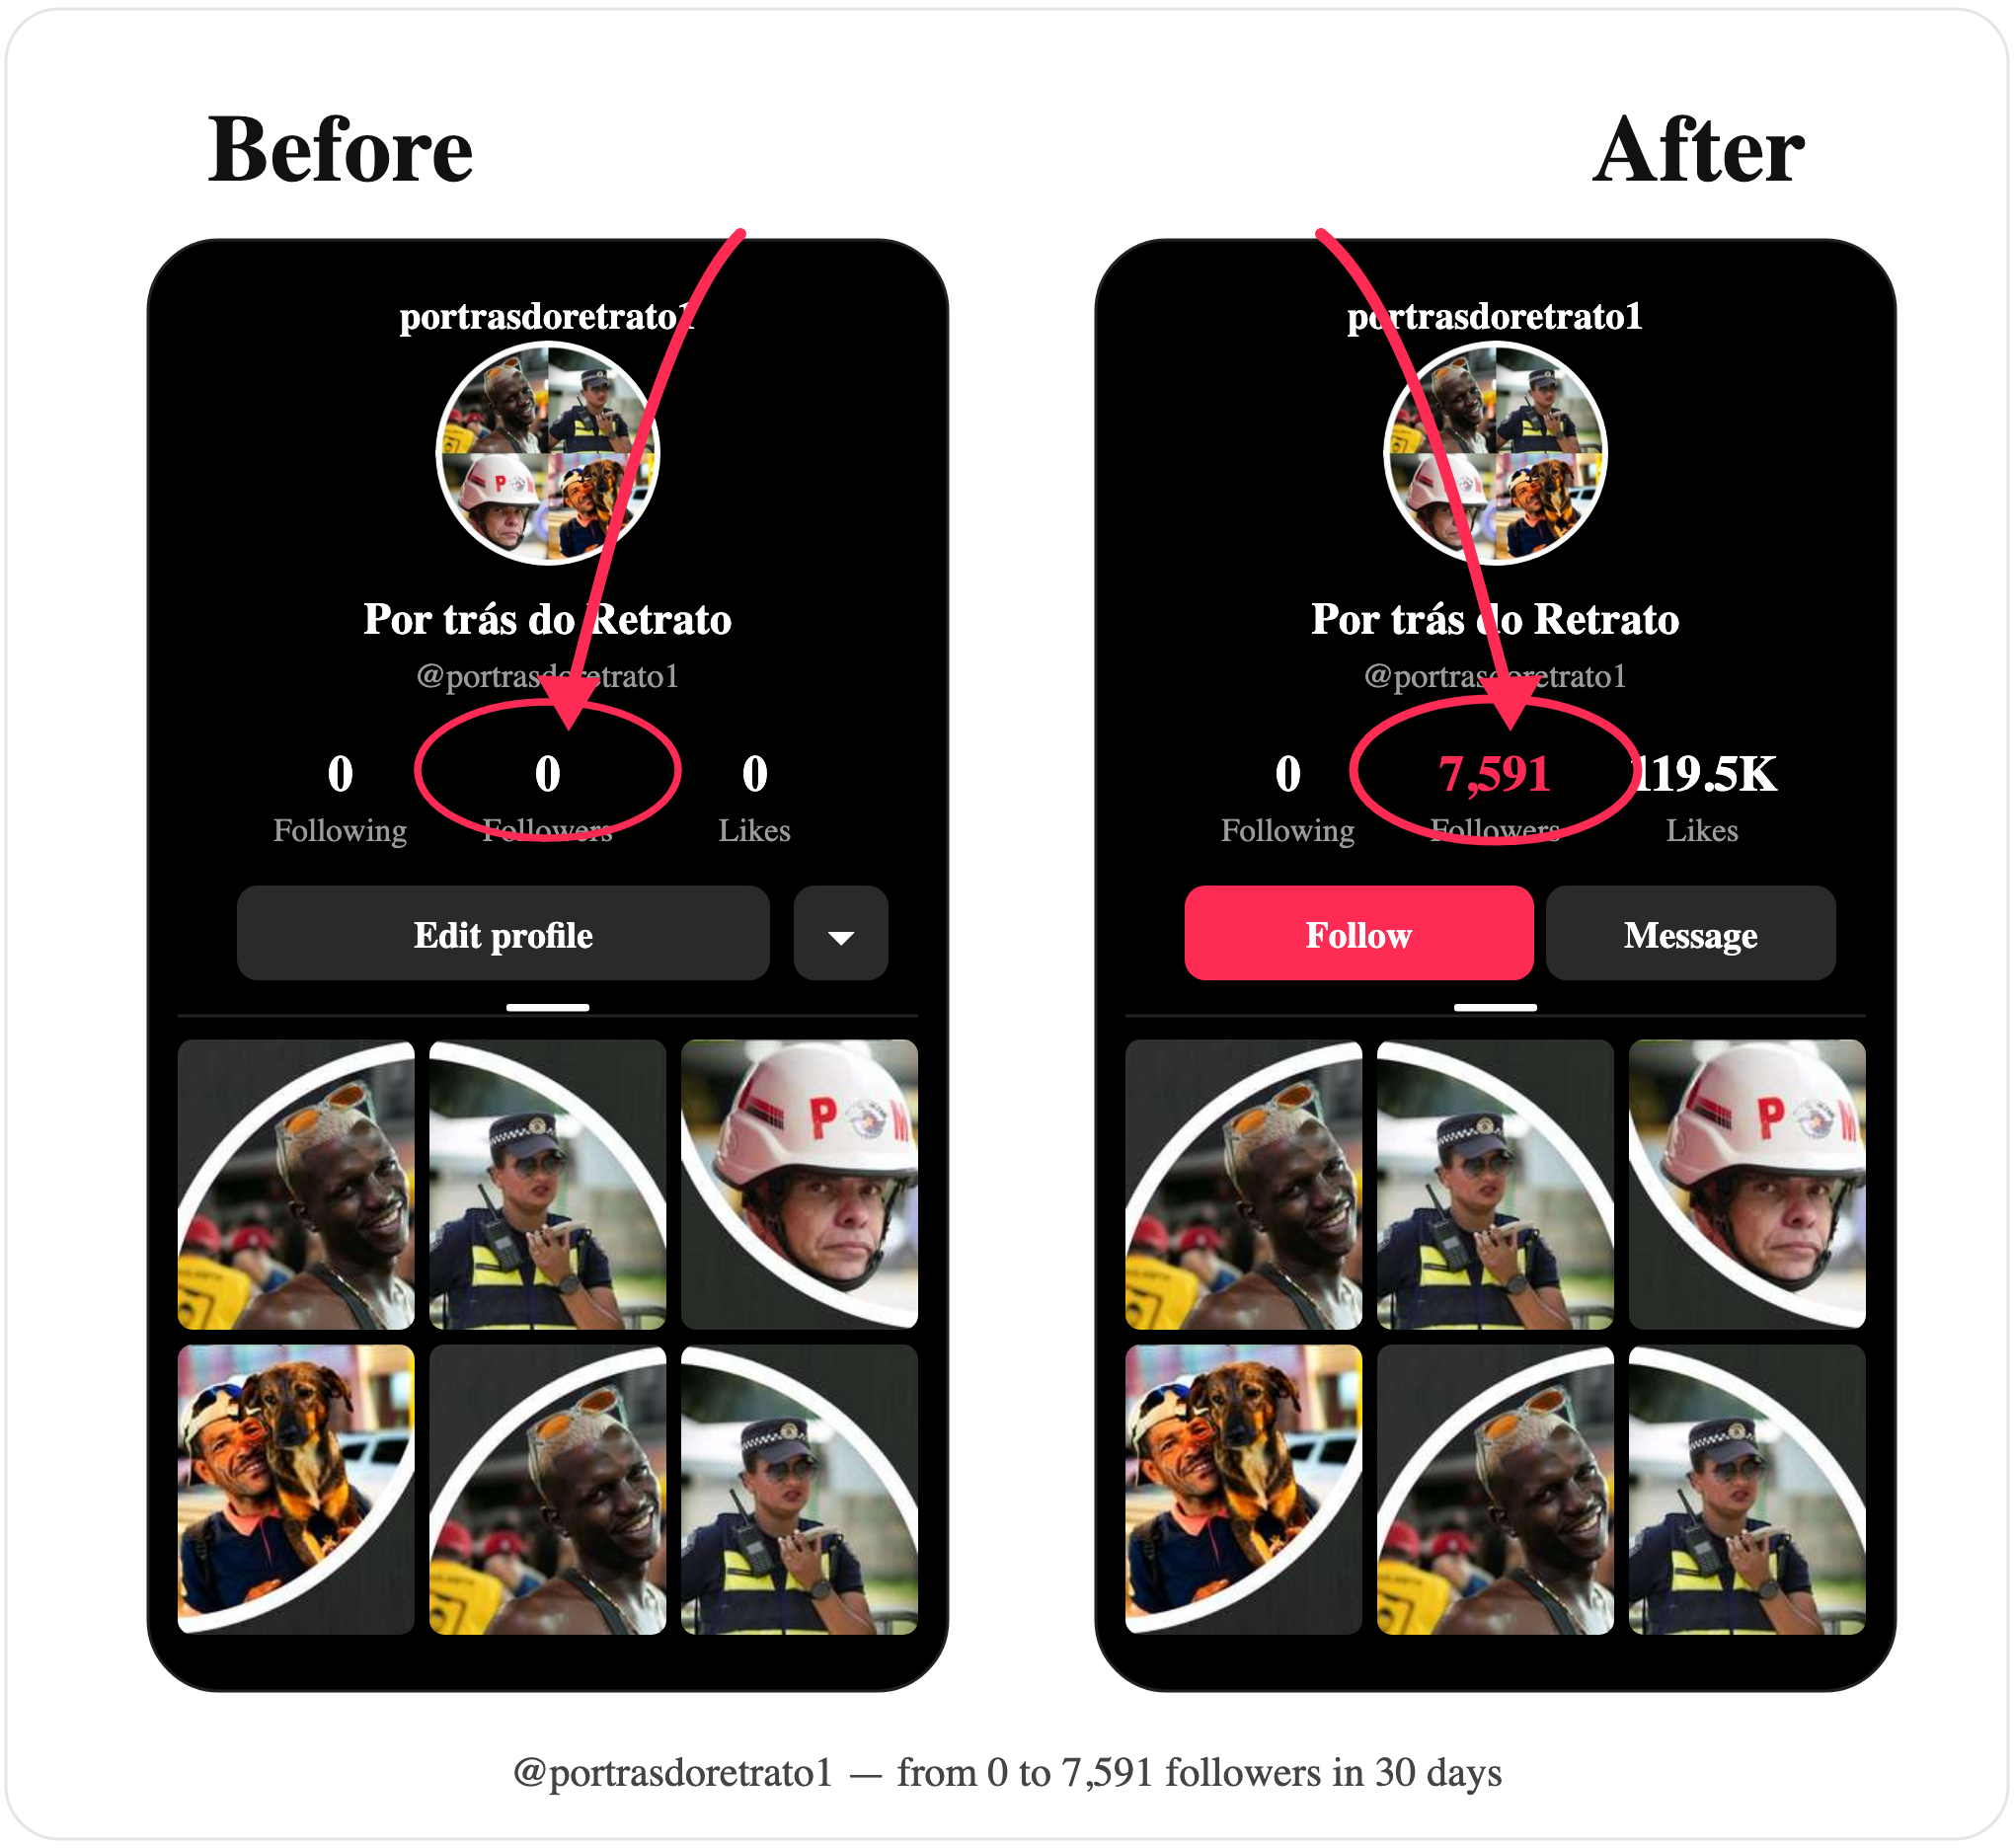
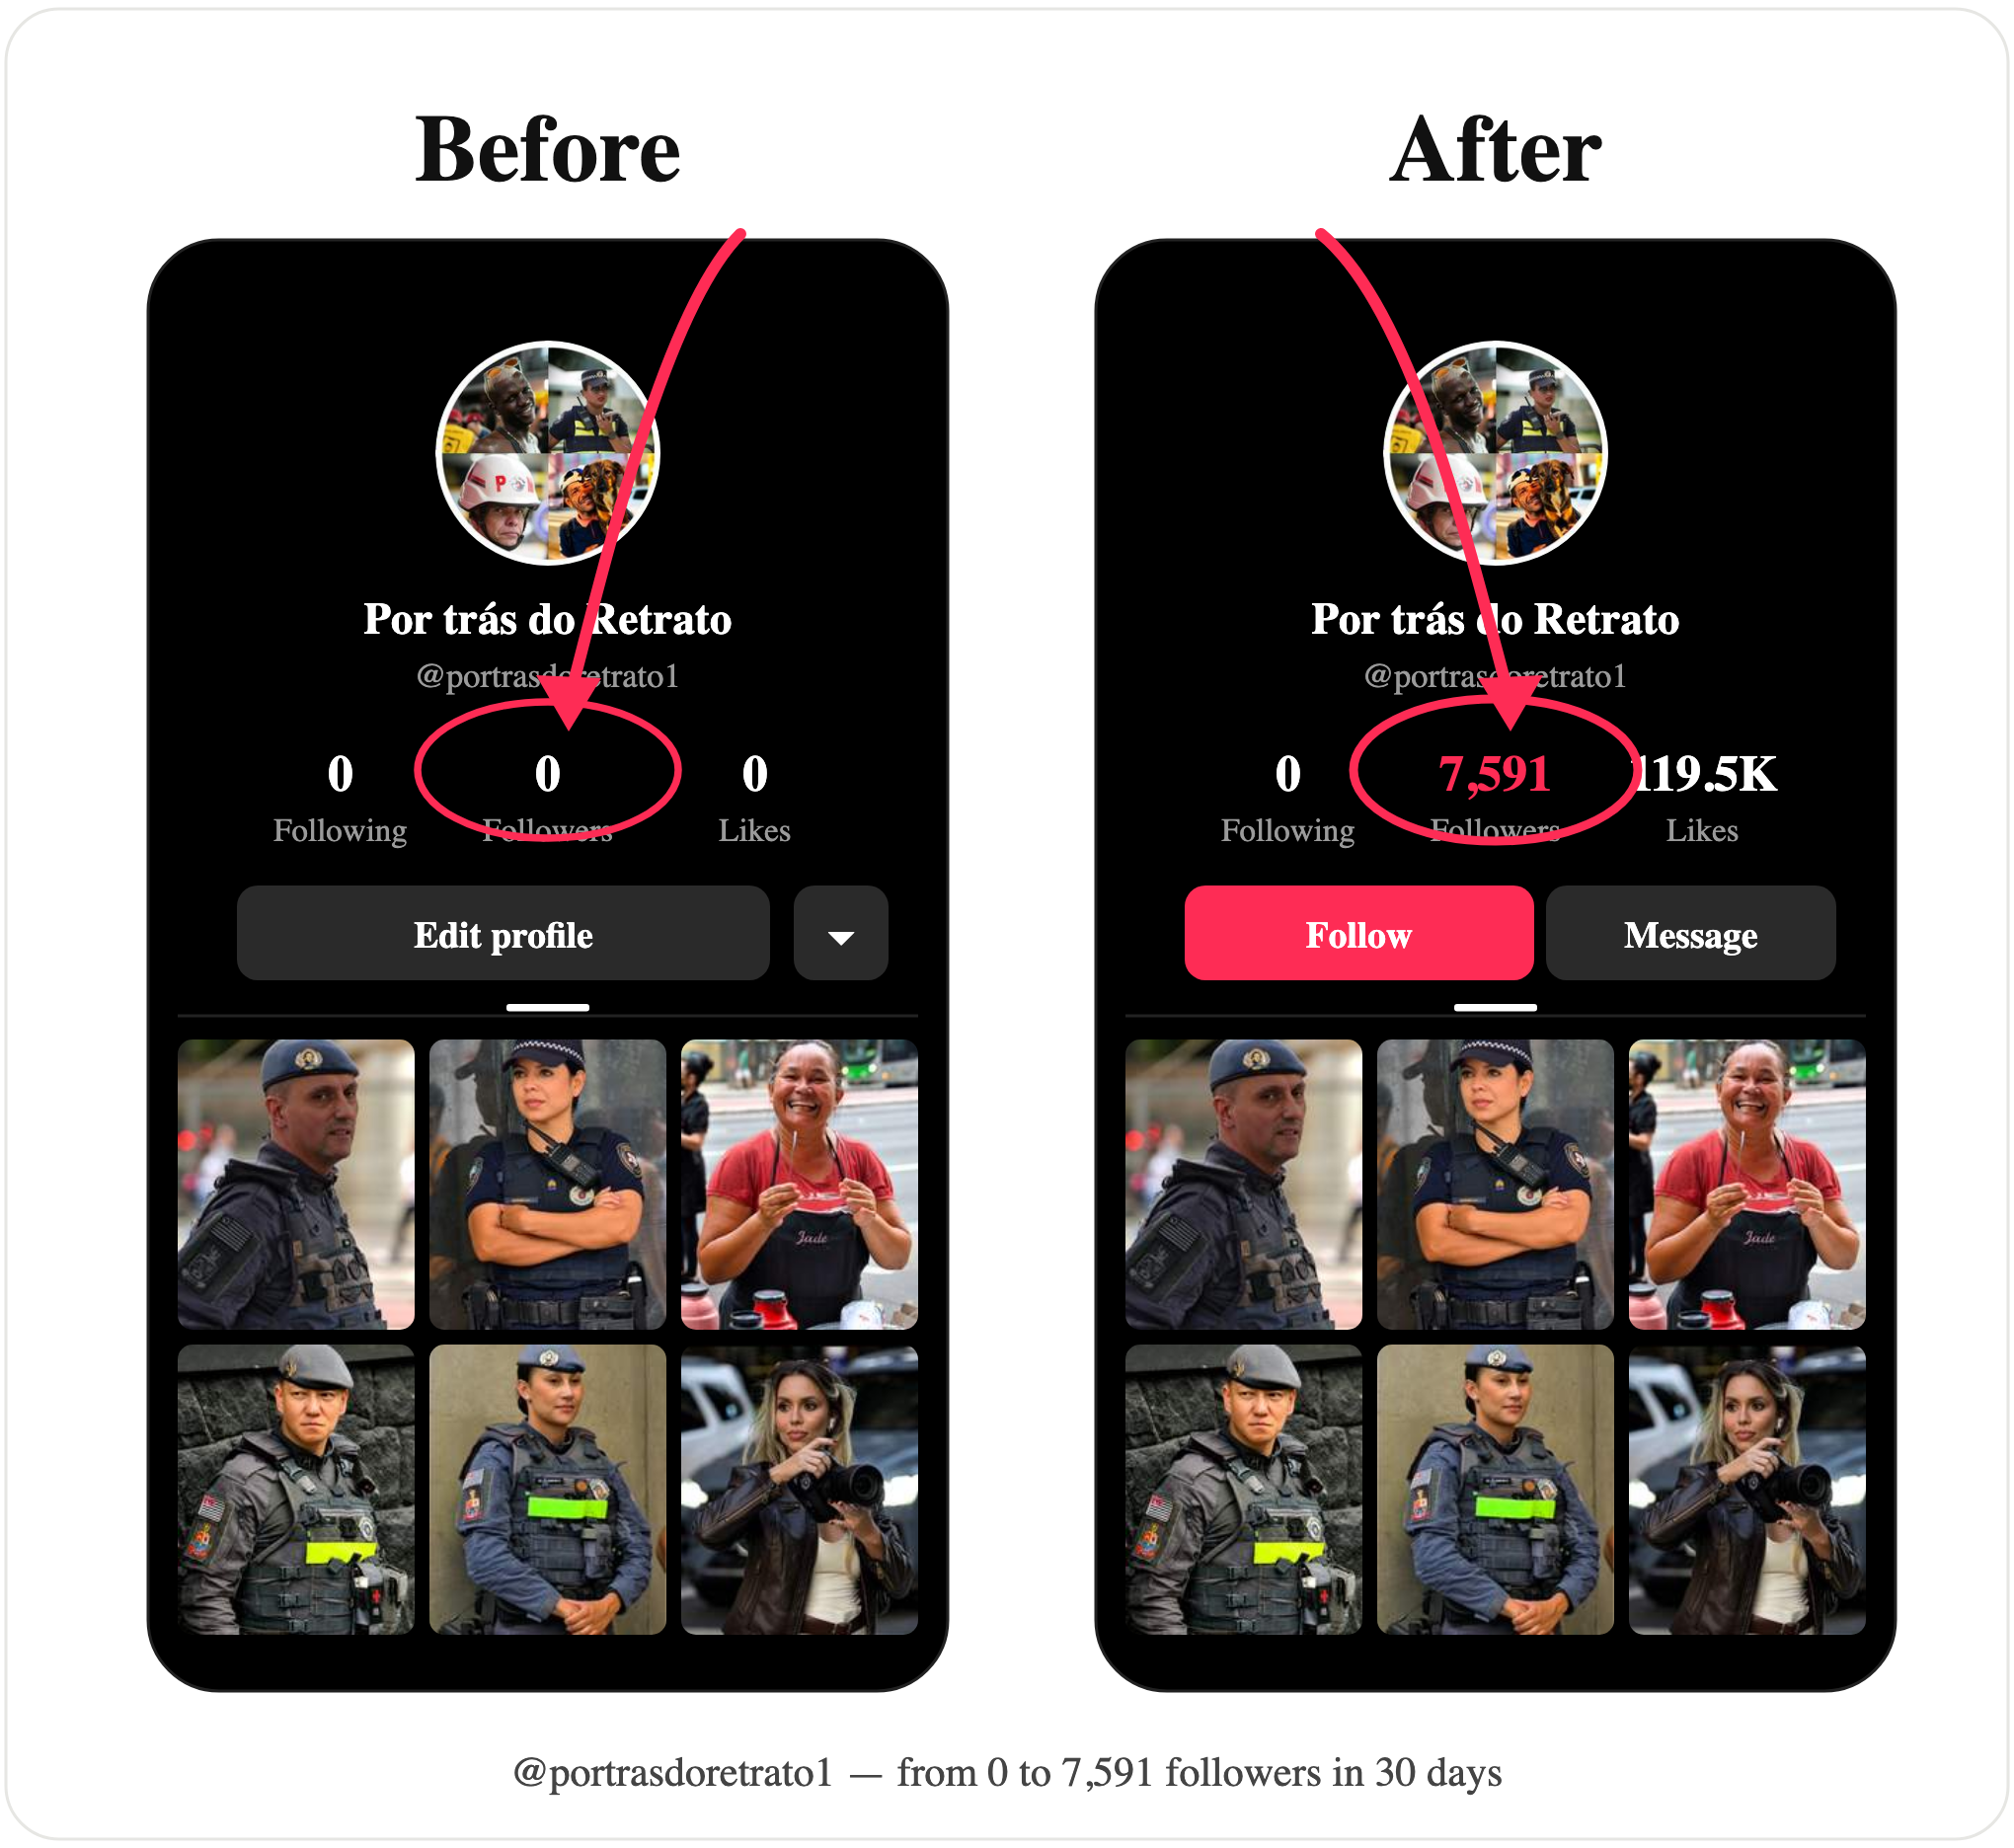
changes

diff --git a/src/components/Results.tsx b/src/components/Results.tsx
@@ -1,0 +1,86 @@
+"use client";
+
+import { motion, useInView } from "framer-motion";
+import { useRef } from "react";
+import { TrendingUp } from "lucide-react";
+
+const stats = [
+  { value: "0 → 7,591", label: "Followers in 30 days" },
+  { value: "119.5K", label: "Total likes" },
+  { value: "30 days", label: "From a brand-new account" },
+];
+
+export default function Results() {
+  const ref = useRef(null);
+  const isInView = useInView(ref, { once: true, margin: "-100px" });
+
+  return (
+    <section id="results" className="py-24 md:py-32">
+      <div className="max-w-6xl mx-auto px-6" ref={ref}>
+        <motion.div
+          initial={{ opacity: 0, y: 30 }}
+          animate={isInView ? { opacity: 1, y: 0 } : {}}
+          transition={{ duration: 0.6 }}
+          className="text-center mb-16"
+        >
+          <p className="text-accent text-sm font-medium tracking-widest uppercase mb-4">
+            Real Results
+          </p>
+          <h2 className="font-[family-name:var(--font-display)] text-4xl md:text-5xl font-bold">
+            Growth That Speaks for Itself
+          </h2>
+          <p className="text-muted mt-4 max-w-xl mx-auto">
+            A brand-new TikTok account I edit for —{" "}
+            <span className="text-foreground/80">@portrasdoretrato1</span> — went
+            from zero to thousands of followers in a single month.
+          </p>
+        </motion.div>
+
+        <div className="grid grid-cols-1 lg:grid-cols-2 gap-12 items-center">
+          <motion.div
+            initial={{ opacity: 0, scale: 0.96 }}
+            animate={isInView ? { opacity: 1, scale: 1 } : {}}
+            transition={{ duration: 0.6, delay: 0.1 }}
+            className="rounded-2xl border border-border bg-card p-3 overflow-hidden"
+          >
+            <img
+              src="/tiktok-growth-before-after.png"
+              alt="Before and after: @portrasdoretrato1 grew from 0 to 7,591 followers in 30 days"
+              className="w-full h-auto rounded-xl"
+              loading="lazy"
+            />
+          </motion.div>
+
+          <motion.div
+            initial={{ opacity: 0, y: 30 }}
+            animate={isInView ? { opacity: 1, y: 0 } : {}}
+            transition={{ duration: 0.6, delay: 0.2 }}
+          >
+            <div className="inline-flex items-center gap-2 text-accent text-sm font-medium mb-6">
+              <TrendingUp size={18} />
+              30-day case study
+            </div>
+            <div className="space-y-5">
+              {stats.map((stat) => (
+                <div
+                  key={stat.label}
+                  className="flex items-baseline gap-4 border-b border-border pb-5"
+                >
+                  <span className="font-[family-name:var(--font-display)] text-3xl md:text-4xl font-bold text-accent shrink-0">
+                    {stat.value}
+                  </span>
+                  <span className="text-muted text-sm">{stat.label}</span>
+                </div>
+              ))}
+            </div>
+            <p className="text-foreground/70 mt-6 leading-relaxed">
+              Consistent short-form editing — sharp pacing, clean captions, and
+              scroll-stopping hooks — turned a fresh page into a fast-growing
+              audience. This is the kind of growth I edit for.
+            </p>
+          </motion.div>
+        </div>
+      </div>
+    </section>
+  );
+}

diff --git a/src/data/portfolio.ts b/src/data/portfolio.ts
@@ -82,6 +82,15 @@ export const portfolioItems: PortfolioItem[] = [
     description:
       "High-paced gaming montage with custom motion graphics and sound design.",
   },
+  {
+    id: "9",
+    title: "Airbnb Property Tour",
+    category: "reels",
+    videoSrc: "/videos/video-9.mp4",
+    posterSrc: "/posters/video-9-poster.jpg",
+    description:
+      "Cinematic Airbnb listing tour for a property in Viana do Castelo, Portugal — smooth transitions, elegant titles, and warm grading that make the space feel like home.",
+  },
 ];
 
 export const categories: { label: string; value: Category }[] = [

diff --git a/src/app/page.tsx b/src/app/page.tsx
@@ -3,6 +3,7 @@ import Hero from "@/components/Hero";
 import TrustStrip from "@/components/TrustStrip";
 import Services from "@/components/Services";
 import Portfolio from "@/components/Portfolio";
+import Results from "@/components/Results";
 import Process from "@/components/Process";
 import Testimonials from "@/components/Testimonials";
 import Pricing from "@/components/Pricing";
@@ -18,6 +19,7 @@ export default function Home() {
         <TrustStrip />
         <Services />
         <Portfolio />
+        <Results />
         <Process />
         <Testimonials />
         <Pricing />